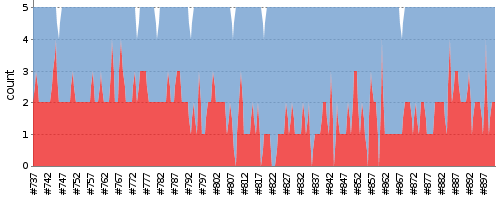
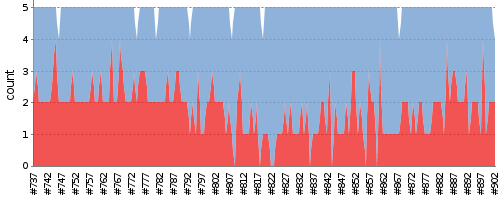
update report

diff --git a/index.md b/index.md
@@ -1,7 +1,7 @@
 ---
 layout: default
 ---
-Last update : 2016/01/23 21:59:07
+Last update : 2016/01/23 22:59:07
   
 ### Job Summary
 ___
@@ -116,6 +116,7 @@ ___
 #### Build History
 |Status|Time|Duration|Inspection|Test|Coverage|Changes|Build|Console|Image|Video|Note|
 |---|---|---|---|---|---|---|---|---|---|---|---|---|
+|![Jenkins Icon](http://jenkinshrg.github.io/images/24x24/red.png)FAILURE|2016/01/23 22:00|10 min.||2 err.|||[openhrp3.log](https://drive.google.com/file/d/0B54sHwaxmuM4SmRyYjJ5QjV1SWs/view?usp=drivesdk)<br>|||||
 |![Jenkins Icon](http://jenkinshrg.github.io/images/24x24/yellow.png)UNSTABLE|2016/01/23 21:00|44 min.||2 err.|||[openhrp3.log](https://drive.google.com/file/d/0B54sHwaxmuM4TGdCNmdQTFFRTU0/view?usp=drivesdk)<br>|||||
 |![Jenkins Icon](http://jenkinshrg.github.io/images/24x24/yellow.png)UNSTABLE|2016/01/23 20:00|45 min.||2 err.|||[openhrp3.log](https://drive.google.com/file/d/0B54sHwaxmuM4M0N6NWlxbXpqZWM/view?usp=drivesdk)<br>[hrpsys-base.log](https://drive.google.com/file/d/0B54sHwaxmuM4RkUxVndKTWpjZVk/view?usp=drivesdk)<br>[HRP2.log](https://drive.google.com/file/d/0B54sHwaxmuM4R3BycU9EbkxjR0k/view?usp=drivesdk)<br>[HRP2DRC.log](https://drive.google.com/file/d/0B54sHwaxmuM4cnhvS0tIQU00SEE/view?usp=drivesdk)<br>[hmc2.log](https://drive.google.com/file/d/0B54sHwaxmuM4UnVwSk9RaHRLOW8/view?usp=drivesdk)<br>[hrpsys-humanoid.log](https://drive.google.com/file/d/0B54sHwaxmuM4REJsN0ZyYllpS2s/view?usp=drivesdk)<br>[hrpsys-private.log](https://drive.google.com/file/d/0B54sHwaxmuM4dEFMMmtFekV5R1E/view?usp=drivesdk)<br>[choreonoid.log](https://drive.google.com/file/d/0B54sHwaxmuM4MmRLRnNhNnJHVjQ/view?usp=drivesdk)<br>|[jenkinshrg.txt](https://drive.google.com/file/d/0B54sHwaxmuM4VGlhdE1xRm1wY3c/view?usp=drivesdk)<br>|[jenkinshrg.png](https://drive.google.com/file/d/0B54sHwaxmuM4dzBzelljcTJKVDg/view?usp=drivesdk)<br>|||
 |![Jenkins Icon](http://jenkinshrg.github.io/images/24x24/yellow.png)UNSTABLE|2016/01/23 19:00|45 min.||1 err.|||[openhrp3.log](https://drive.google.com/file/d/0B54sHwaxmuM4YTdVcUdZamwxWDQ/view?usp=drivesdk)<br>[hrpsys-base.log](https://drive.google.com/file/d/0B54sHwaxmuM4aHIta1hKMk8yVXM/view?usp=drivesdk)<br>[HRP2.log](https://drive.google.com/file/d/0B54sHwaxmuM4M2hqRHBvZ3FDaGs/view?usp=drivesdk)<br>[HRP2DRC.log](https://drive.google.com/file/d/0B54sHwaxmuM4VVNPMVRXdGdiOEk/view?usp=drivesdk)<br>[hmc2.log](https://drive.google.com/file/d/0B54sHwaxmuM4NllOVUc2TjF4cVE/view?usp=drivesdk)<br>[hrpsys-humanoid.log](https://drive.google.com/file/d/0B54sHwaxmuM4a3Uta292SC1ndHM/view?usp=drivesdk)<br>[hrpsys-private.log](https://drive.google.com/file/d/0B54sHwaxmuM4cXM0UWlHeDIzekU/view?usp=drivesdk)<br>[choreonoid.log](https://drive.google.com/file/d/0B54sHwaxmuM4eGtSNER0SmZRTk0/view?usp=drivesdk)<br>|[jenkinshrg.txt](https://drive.google.com/file/d/0B54sHwaxmuM4RHdMLWRtM1ZFSU0/view?usp=drivesdk)<br>|[jenkinshrg.png](https://drive.google.com/file/d/0B54sHwaxmuM4X1ZGemFMT2RSd0E/view?usp=drivesdk)<br>|||
@@ -215,4 +216,3 @@ ___
 |![Jenkins Icon](http://jenkinshrg.github.io/images/24x24/yellow.png)UNSTABLE|2016/01/20 02:00|44 min.||2 err.||||||||
 |![Jenkins Icon](http://jenkinshrg.github.io/images/24x24/yellow.png)UNSTABLE|2016/01/20 01:00|45 min.||2 err.||||||||
 |![Jenkins Icon](http://jenkinshrg.github.io/images/24x24/yellow.png)UNSTABLE|2016/01/20 00:00|45 min.||2 err.||||||||
-|![Jenkins Icon](http://jenkinshrg.github.io/images/24x24/yellow.png)UNSTABLE|2016/01/19 23:00|45 min.||2 err.||||||||
